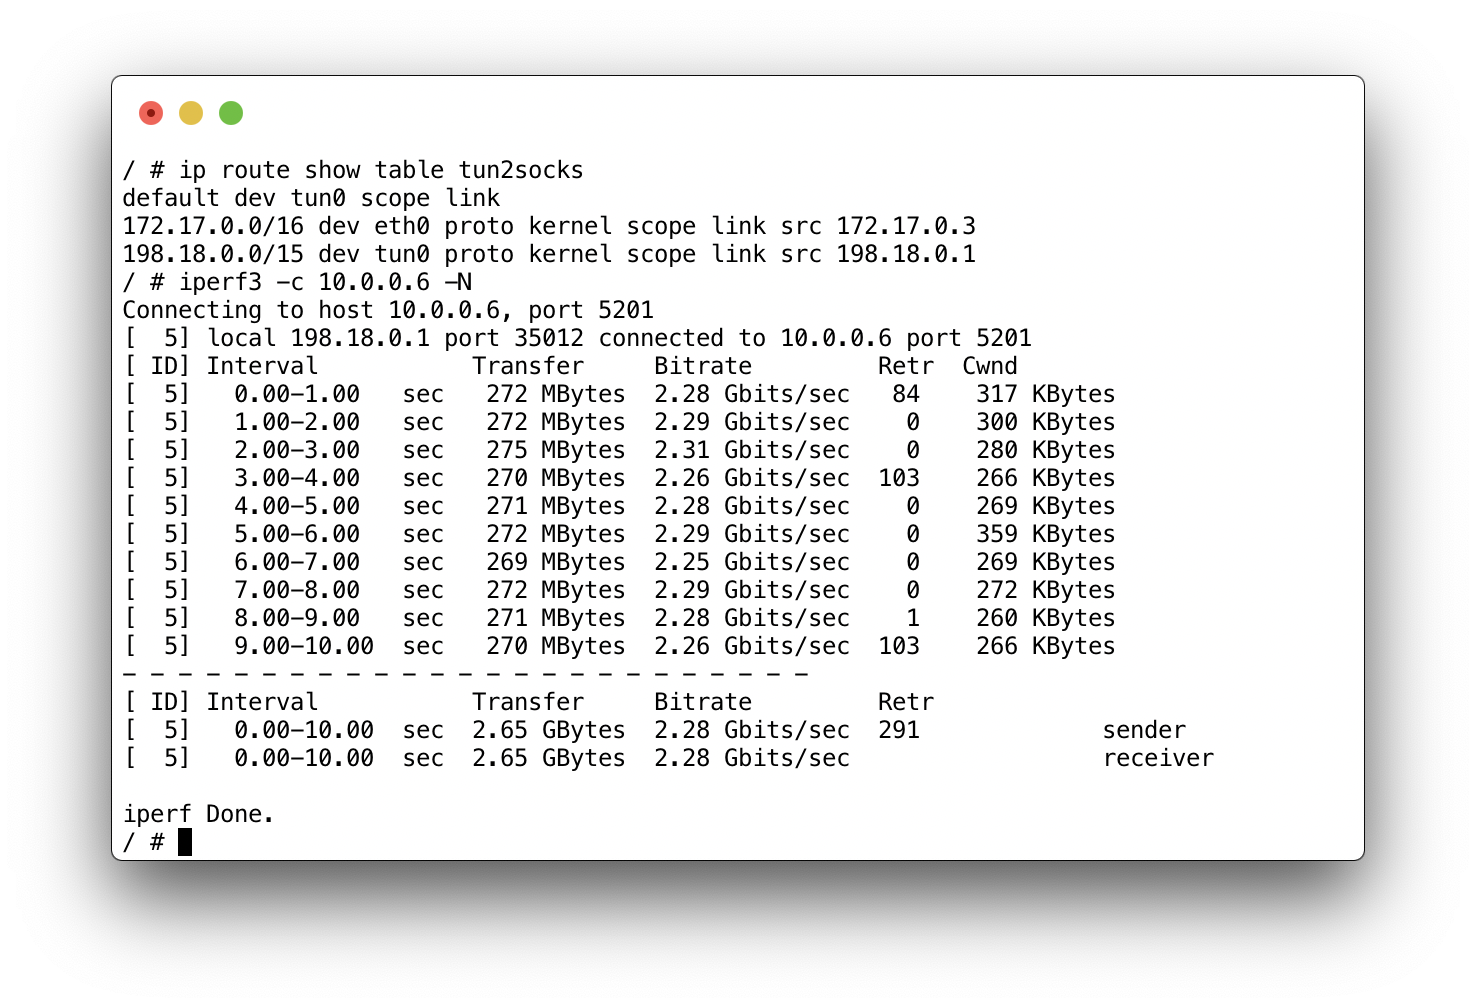
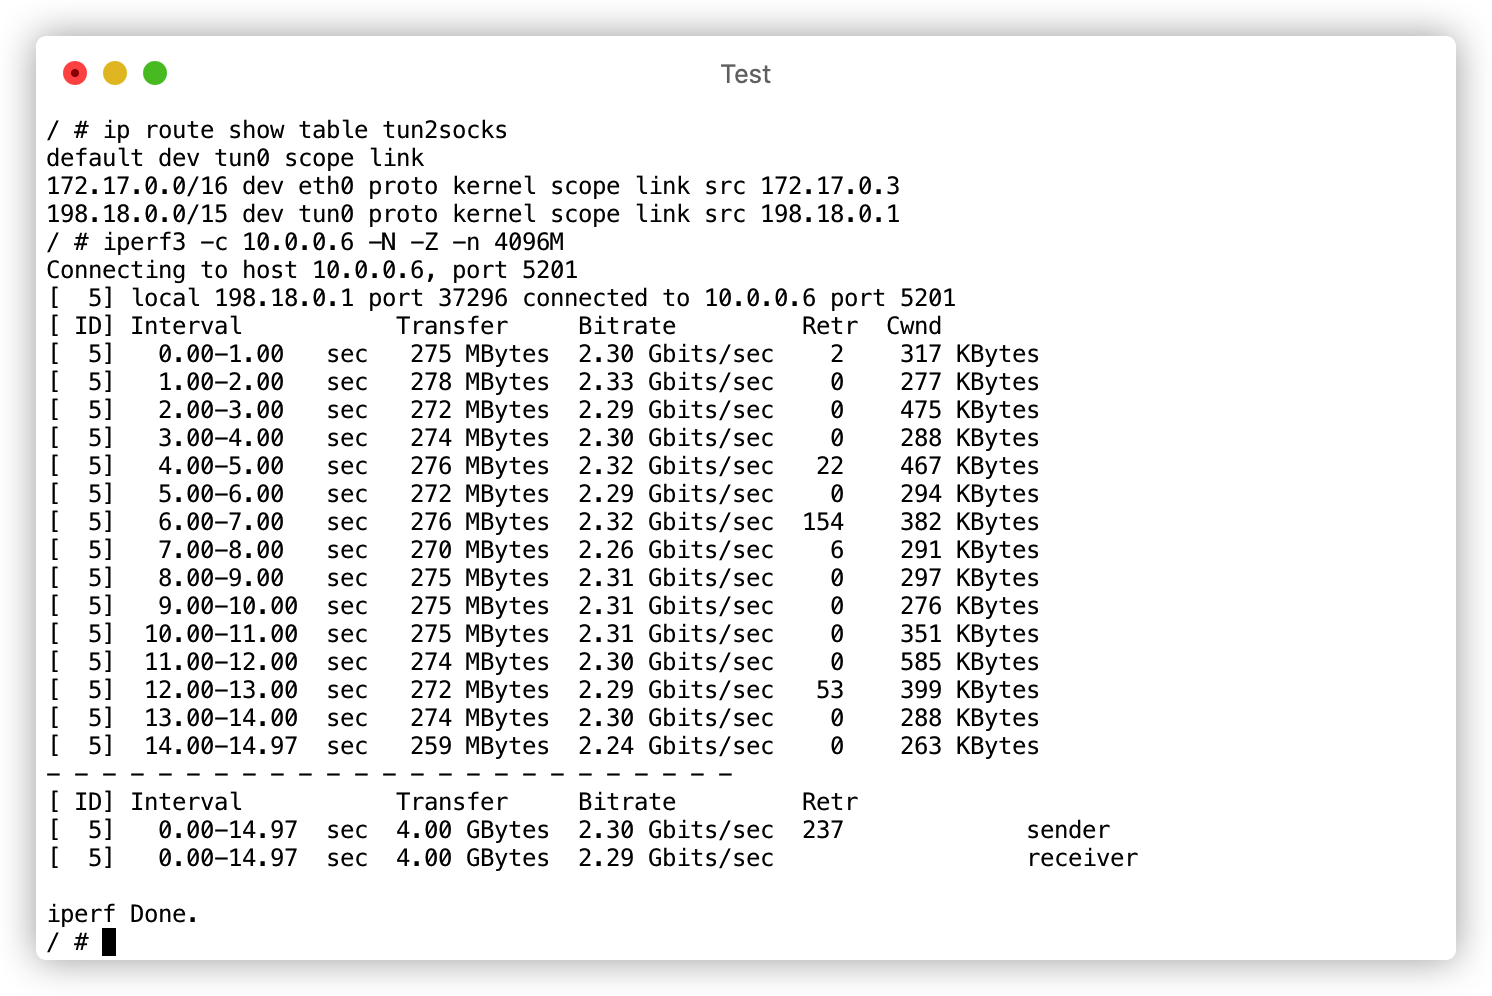
readme

Changed region(s): [[0.0, 0.0, 0.9973, 0.996], [0.748, 0.7159, 0.8103, 0.7781]]

diff --git a/README.md b/README.md
@@ -1,18 +1,37 @@
-# tun2socks
+<h1 align="center">tun2socks</h1>
+<h3 align="center">A tun2socks implementation written in Go.</h3>
 
-![GitHub Workflow Status](https://img.shields.io/github/workflow/status/xjasonlyu/tun2socks/Go/master?style=flat-square)
-![Go report](https://goreportcard.com/badge/github.com/xjasonlyu/tun2socks?style=flat-square)
-![GitHub License](https://img.shields.io/github/license/xjasonlyu/tun2socks?style=flat-square)
-![Lines of code](https://img.shields.io/tokei/lines/github/xjasonlyu/tun2socks?style=flat-square)
-![Release](https://img.shields.io/github/v/release/xjasonlyu/tun2socks.svg?include_prereleases&style=flat-square)
-
-A tun2socks implementation written in Go.
+<p align="center">
+  <a href="https://github.com/xjasonlyu/tun2socks/actions">
+    <img src="https://img.shields.io/github/workflow/status/xjasonlyu/tun2socks/Go/master?style=flat-square" alt="GitHub Workflow">
+  </a>
+  <a href="https://hub.docker.com/r/xjasonlyu/tun2socks">
+    <img src="https://img.shields.io/docker/pulls/xjasonlyu/tun2socks?style=flat-square" alt="Docker Pulls">
+  </a>
+  <a href="https://img.shields.io/github/go-mod/go-version/xjasonlyu/tun2socks">
+    <img src="https://img.shields.io/github/go-mod/go-version/xjasonlyu/tun2socks?style=flat-square" alt="Go Version">
+  </a>
+  <a href="https://goreportcard.com/badge/github.com/xjasonlyu/tun2socks">
+    <img src="https://goreportcard.com/badge/github.com/xjasonlyu/tun2socks?style=flat-square" alt="Go Report">
+  </a>
+  <a href="https://github.com/xjasonlyu/tun2socks/blob/master/LICENSE">
+    <img src="https://img.shields.io/github/license/xjasonlyu/tun2socks?style=flat-square" alt="GitHub License">
+  </a>
+  <a href="https://img.shields.io/tokei/lines/github/xjasonlyu/tun2socks">
+    <img src="https://img.shields.io/tokei/lines/github/xjasonlyu/tun2socks?style=flat-square" alt="Total Lines">
+  </a>
+  <a href="https://github.com/xjasonlyu/tun2socks/releases">
+    <img src="https://img.shields.io/github/v/release/xjasonlyu/tun2socks?include_prereleases&style=flat-square" alt="Release">
+  </a>
+</p>
 
 ## Features
 
+- ICMP echoing
 - IPv6 support
 - Optimized UDP transmission for game acceleration
-- Pure Go implementation, no CGO required
+- Pure Go implementation, no more CGO required
+- Router mode, routing all the traffic in LAN
 - Socks5, Shadowsocks protocol support for remote connections
 - TCP/IP stack powered by [gVisor](https://github.com/google/gvisor)
 - Up to 2.5Gbps throughput (10x faster than [v1](https://github.com/xjasonlyu/tun2socks/tree/v1))
@@ -25,16 +44,77 @@ A tun2socks implementation written in Go.
 | Memory | >20MB | >128MB |
 | CPU | amd64 arm64 | amd64 |
 
+## Performance
+
+> iPerf3 tested on Debian 10 with i5-10500, 8G RAM
+
+<img src="assets/iperf3.png" alt="iPerf3 Test" height="450px">
+
+## How to Build
+
+### build from source code
+
+Go compiler version >= 1.15 is required
+
+```text
+$ git clone https://github.com/xjasonlyu/tun2socks.git
+$ cd tun2socks
+$ make
+```
+
+### build docker image
+
+```text
+$ docker build -t tun2socks .
+```
+
+or
+
+```text
+$ docker build -t tun2socks -f ./docker/Dockerfile.aarch64 .
+```
+
 ## QuickStart
 
 Download from precompiled [Releases](https://github.com/xjasonlyu/tun2socks/releases).
 
 <details>
-  <summary>With Docker</summary>
+  <summary><b>With Docker</b></summary>
 
 > Since Go 1.12, the runtime now uses MADV_FREE to release unused memory on **linux**. This is more efficient but may result in higher reported RSS. The kernel will reclaim the unused data when it is needed. To revert to the Go 1.11 behavior (MADV_DONTNEED), set the environment variable GODEBUG=madvdontneed=1.
 
-docker-compose.yml
+create docker network (macvlan mode)
+
+```shell script
+docker network create -d macvlan \
+  --subnet=172.20.1.0/25 \
+  --gateway=172.20.1.1 \
+  -o parent=eth0 \
+  switch
+```
+
+pull `tun2socks` docker image
+
+```shell script
+docker pull xjasonlyu/tun2socks:latest
+```
+
+run as gateway (DNS configuration required)
+
+```shell script
+docker run -d \
+  --network switch \
+  --name tun2socks \
+  --ip 172.20.1.2 \
+  --privileged \
+  --restart always \
+  --sysctl net.ipv4.ip_forward=1 \
+  -e PROXY=socks5://server:port \
+  -e KEY=VALUE... \
+  xjasonlyu/tun2socks:latest
+```
+
+or use docker-compose (recommended)
 
 ```yaml
 version: '2.4'
@@ -50,10 +130,10 @@ services:
       # - GODEBUG=madvdontneed=1
       - PROXY=socks5://server:port
       - LOGLEVEL=warning
-      - API=:8080
-      - DNS=:53
-      - HOSTS=
-      - EXCLUDED=
+      - API=api://:8080
+      - DNS=dns://:53
+      - HOSTS=localhost=127.0.0.1,router.local=172.20.1.1
+      - EXCLUDED=1.1.1.1,1.0.0.1
       - EXTRACMD=
     networks:
       switch:
@@ -76,7 +156,7 @@ networks:
 </details>
 
 <details>
-  <summary>With Linux</summary>
+  <summary><b>With Linux</b></summary>
 
 create tun
 
@@ -86,7 +166,7 @@ ip addr add 198.18.0.1/15 dev tun0
 ip link set dev tun0 up
 ```
 
-add route
+add route table
 
 ```shell script
 ip route del default
@@ -101,26 +181,30 @@ run
 </details>
 
 <details>
-  <summary>With Script</summary>
+  <summary><b>With Script</b></summary>
 
 ```shell script
 PROXY=socks5://server:port LOGLEVEL=WARN sh ./scripts/entrypoint.sh
 ```
 </details>
 
-## Build from source
+## Details
 
-```text
-$ git clone https://github.com/xjasonlyu/tun2socks.git
-$ cd tun2socks
-$ make
-```
+<details>
+  <summary><b>API Reference</b></summary>
 
-## Performance
+| Path | Methods | Parameters | Description |
+| :--- | :------ | :--------- | :---------- |
+| `/logs` | GET | `level` | Get real-time logs |
+| `/traffic` | GET | | Get real-time traffic data |
+| `/version` | GET | | Get current version |
+| `/connections` | GET | `interval` | Get all connections |
+| `/connections` | DELETE | | Close all connections |
+| `/connections/{id}` | DELETE | | Close connection by `id` |
+</details>
 
-![iperf3 test](assets/iperf3.png)
-
-## Usage
+<details>
+  <summary><b>Help Text</b></summary>
 
 ```text
 NAME:
@@ -140,18 +224,19 @@ GLOBAL OPTIONS:
    --version, -v                Print current version (default: false)
    --help, -h                   show help (default: false)
 ```
-
-## Known Issues
-
-Due to the implementation of pure Go, the memory usage is higher than the previous version.
-If you are memory sensitive, please go back to [v1](https://github.com/xjasonlyu/tun2socks/tree/v1).
-
-## TODO
-
-- [ ] Windows support
+</details>
 
 ## Credits
 
 - [Dreamacro/clash](https://github.com/Dreamacro/clash)
 - [google/gvisor](https://github.com/google/gvisor)
 - [majek/slirpnetstack](https://github.com/majek/slirpnetstack)
+
+## Known Issues
+
+Due to the implementation of pure Go, the memory usage is higher than the previous version.
+If you are sensitive to memory, please go back to [v1](https://github.com/xjasonlyu/tun2socks/tree/v1).
+
+## TODO
+
+- [ ] Windows support
